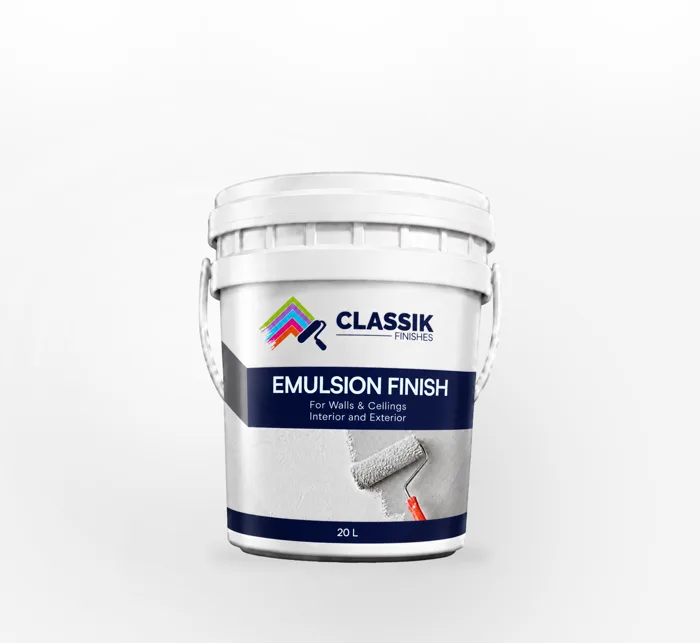
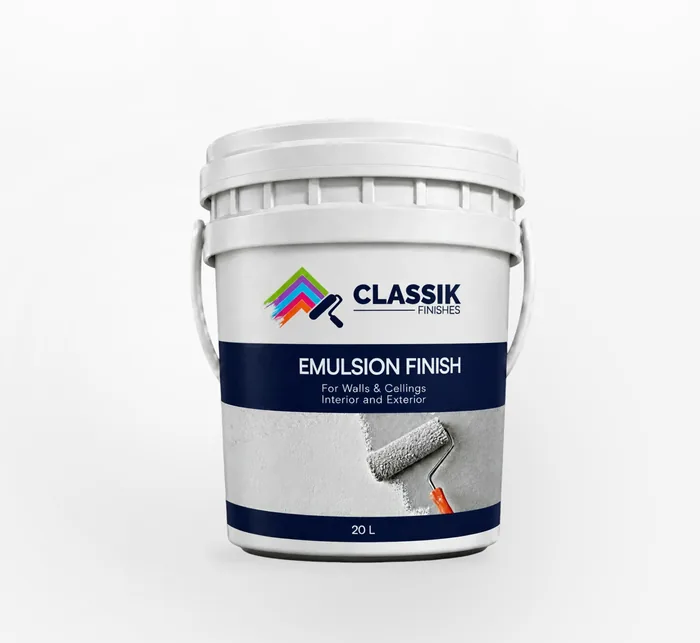
New Emulsion image, add Matt Finish, show 3 products on homepage
- Emulsion Finish uses the new product shot (compressed to 700px WebP)
- Add Matt Finish (20L, wall paints, price on request)
- Homepage shows 3 products in a grid (2 on tablet); View all products
  goes to /products/

Changed region(s): [[0.27, 0.1866, 0.78, 0.8709]]

diff --git a/index.html b/index.html
@@ -157,12 +157,8 @@
           <h2 class="h-2">Classik Finishes, in the can.</h2>
           <p class="lead" style="margin-top:16px">Our own line of paints and coatings: the same materials our crews use on site.</p>
         </div>
-        <div class="scroller-nav">
-          <button type="button" class="icon-btn" data-scroll-target="#home-products" data-dir="-1" aria-label="Scroll products left"><svg class="icon" width="20" height="20" viewBox="0 0 24 24" fill="none" stroke="currentColor" stroke-width="2" stroke-linecap="round" stroke-linejoin="round" aria-hidden="true"><path d="M19 12H5"/><path d="m12 19-7-7 7-7"/></svg></button>
-          <button type="button" class="icon-btn" data-scroll-target="#home-products" data-dir="1" aria-label="Scroll products right"><svg class="icon" width="20" height="20" viewBox="0 0 24 24" fill="none" stroke="currentColor" stroke-width="2" stroke-linecap="round" stroke-linejoin="round" aria-hidden="true"><path d="M5 12h14"/><path d="m12 5 7 7-7 7"/></svg></button>
-        </div>
       </div>
-      <div class="scroller reveal" id="home-products" data-render="products" data-hide-price></div>
+      <div class="card-grid card-grid-3 reveal-stagger" id="home-products" data-render="products" data-limit="3" data-hide-price></div>
       <p style="margin-top:28px"><a class="link-arrow" href="products/">View all products <svg class="icon" width="16" height="16" viewBox="0 0 24 24" fill="none" stroke="currentColor" stroke-width="2" stroke-linecap="round" stroke-linejoin="round" aria-hidden="true"><path d="M5 12h14"/><path d="m12 5 7 7-7 7"/></svg></a></p>
     </div>
   </section>

diff --git a/assets/css/site.css b/assets/css/site.css
@@ -357,6 +357,9 @@ body.drawer-open { overflow: hidden; }
 .group-head .sw { width: 44px; height: 10px; }
 .group-head p { flex-basis: 100%; color: var(--text-3); max-width: 60ch; }
 .card-grid { display: grid; grid-template-columns: repeat(auto-fill, minmax(260px, 1fr)); gap: clamp(16px, 2vw, 24px); }
+.card-grid-3 { grid-template-columns: repeat(3, minmax(0, 1fr)); }
+@media (max-width: 900px) { .card-grid-3 { grid-template-columns: repeat(2, minmax(0, 1fr)); } .card-grid-3 > :nth-child(3) { display: none; } }
+@media (max-width: 560px) { .card-grid-3 { grid-template-columns: 1fr; } .card-grid-3 > :nth-child(3) { display: flex; } }
 .rate-card { position: relative; display: grid; grid-template-rows: auto 1fr auto; min-height: 300px; padding: 28px 24px 22px; background: #fff; border: 2px solid var(--rule); border-top: 6px solid var(--c); overflow: hidden; transition: transform 240ms ease, box-shadow 240ms ease, border-color 240ms ease, background 240ms ease; }
 .rate-card:hover { transform: translateY(-6px); box-shadow: 0 24px 48px -26px rgba(4,5,41,.45); border-color: var(--ink); border-top-color: var(--c); }
 .rate-card.is-selected { background: var(--pale); border-color: var(--ink); border-top-color: var(--c); }

diff --git a/assets/js/data.js b/assets/js/data.js
@@ -57,6 +57,7 @@ CF.serviceGroups = [
 
 CF.products = [
   { id: "emulsion", name: "Emulsion Finish", price: 23000, size: "20L", category: "walls", img: "products/Emulsion Finish-web.webp", note: "For walls and ceilings, interior and exterior." },
+  { id: "matt", name: "Matt Finish", price: null, size: "20L", category: "walls", img: "products/Matt Finish-web.webp", note: "Flat, non-reflective finish for walls and ceilings, interior and exterior." },
   { id: "silk", name: "Silk Finish", price: 68000, size: "20L", category: "walls", img: "products/SILK FINISH-web.webp", note: "Rich coverage, smooth application, elegant sheen." },
   { id: "gloss", name: "Gloss Finish", price: 22600, size: "4L", category: "protective", img: "products/GLOSS FINISH-web.webp", note: "Durable surface protection for wood and metal." },
   { id: "undercoat", name: "Undercoat", price: 19000, size: "4L", category: "protective", img: "products/UNDERCOAT-web.webp", note: "A smooth base for a better finish." },

diff --git a/assets/js/site.js b/assets/js/site.js
@@ -152,7 +152,8 @@
 
   function renderProducts(el) {
     var hide = el.hasAttribute("data-hide-price");
-    el.innerHTML = CF.products.map(function (p) { return productCard(p, hide); }).join("");
+    var limit = Number(el.getAttribute("data-limit")) || CF.products.length;
+    el.innerHTML = CF.products.slice(0, limit).map(function (p) { return productCard(p, hide); }).join("");
   }
 
   function renderProductFilters(el) {
